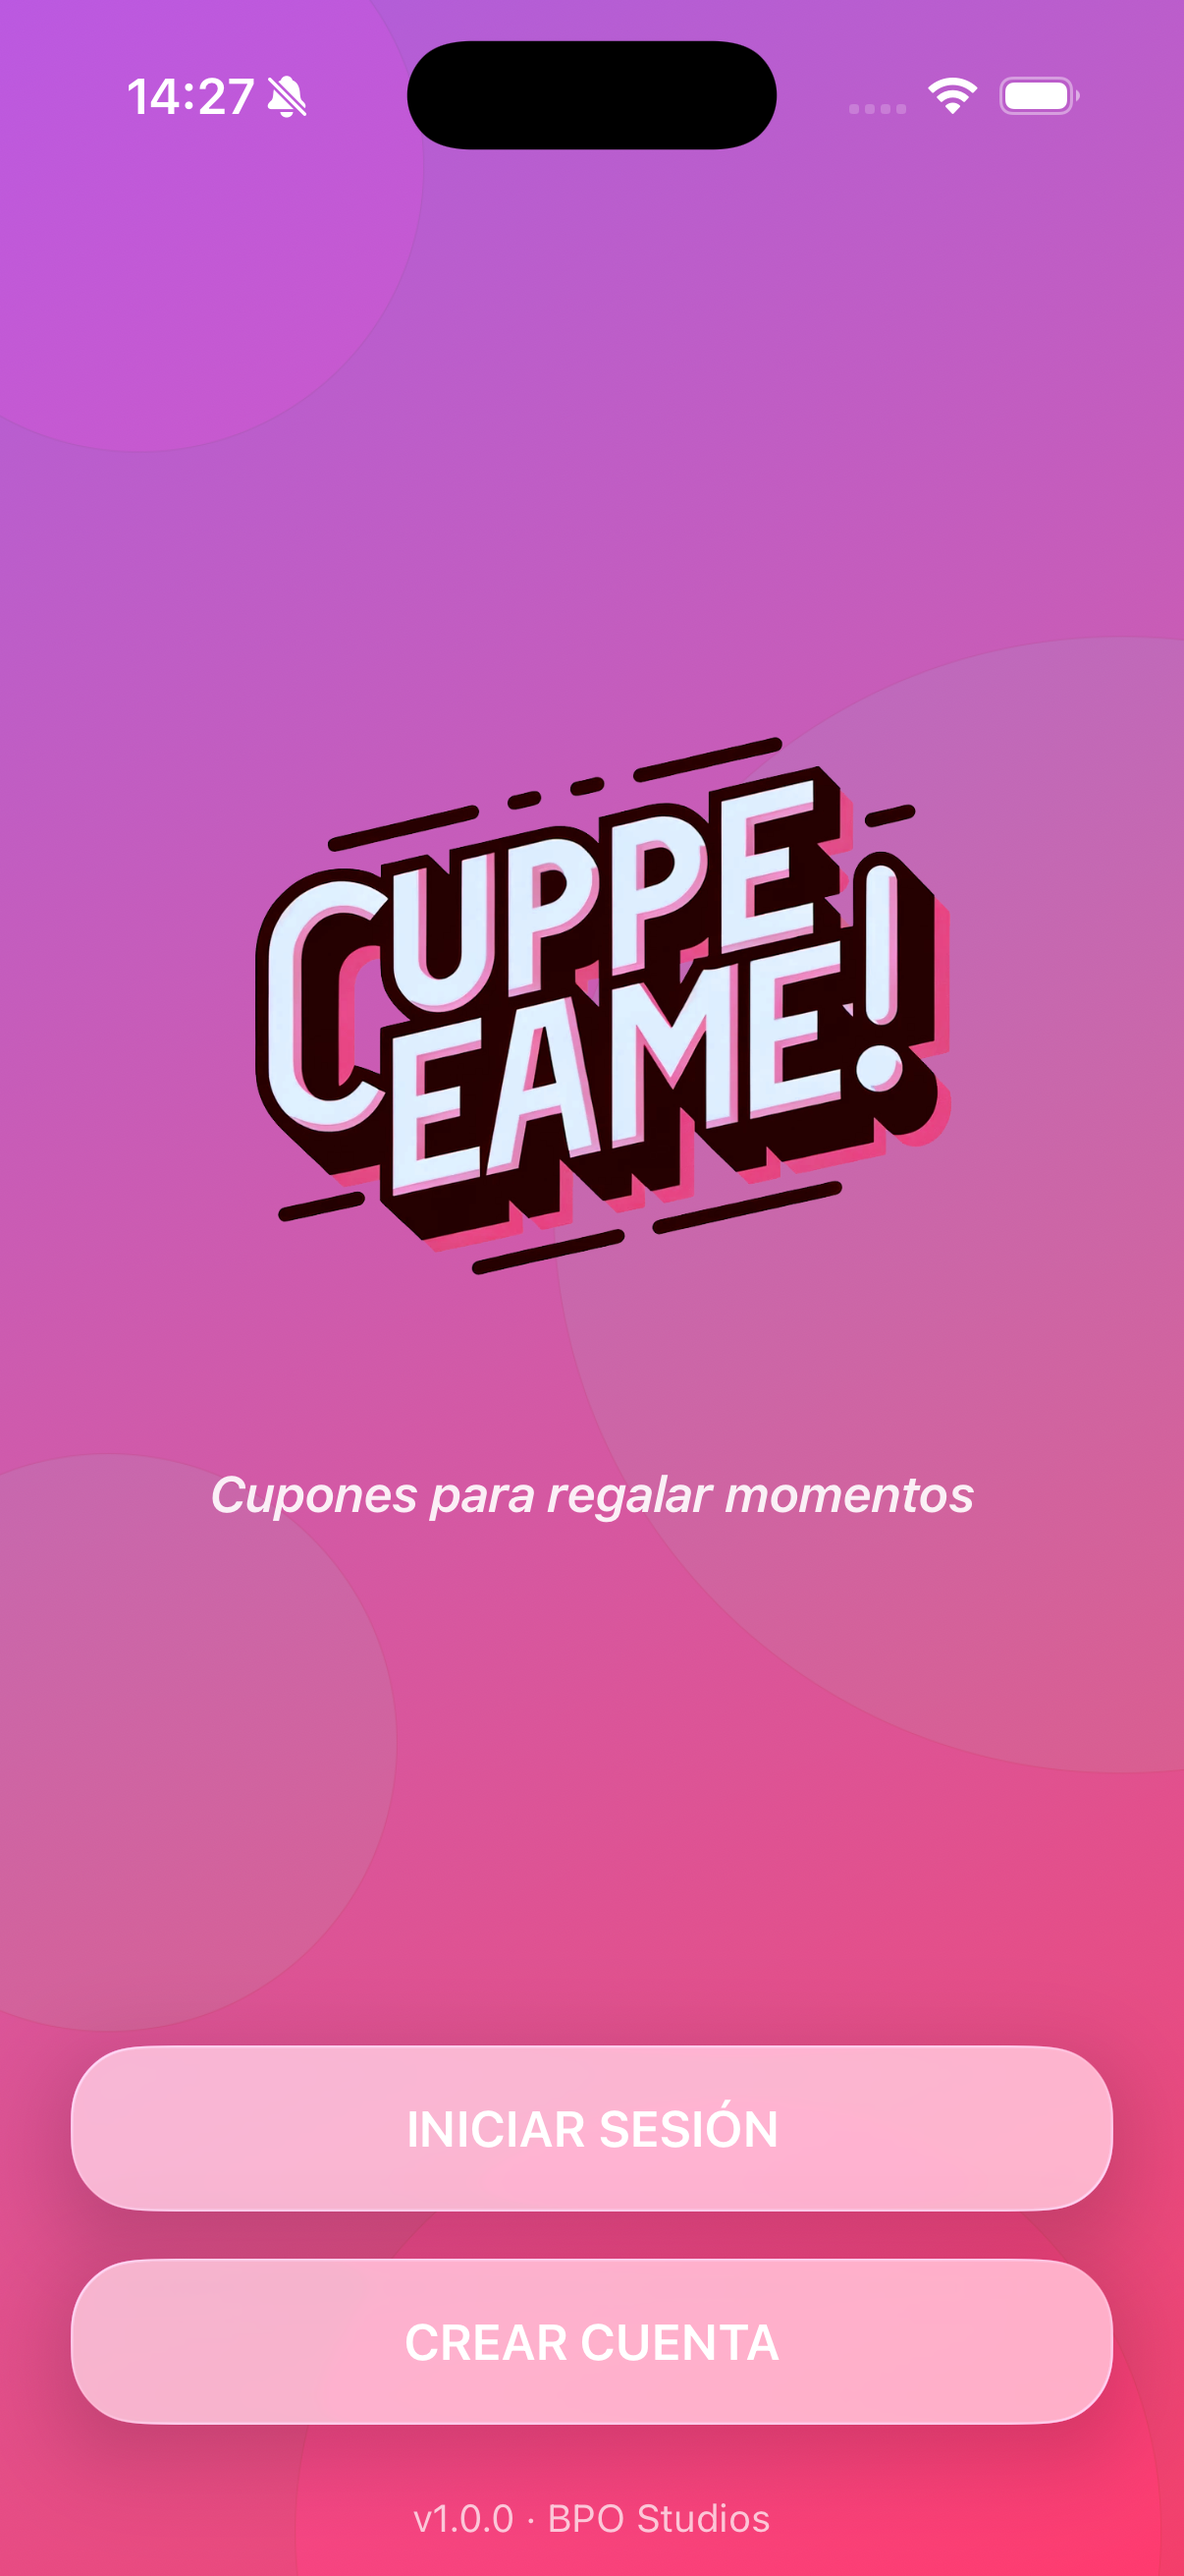
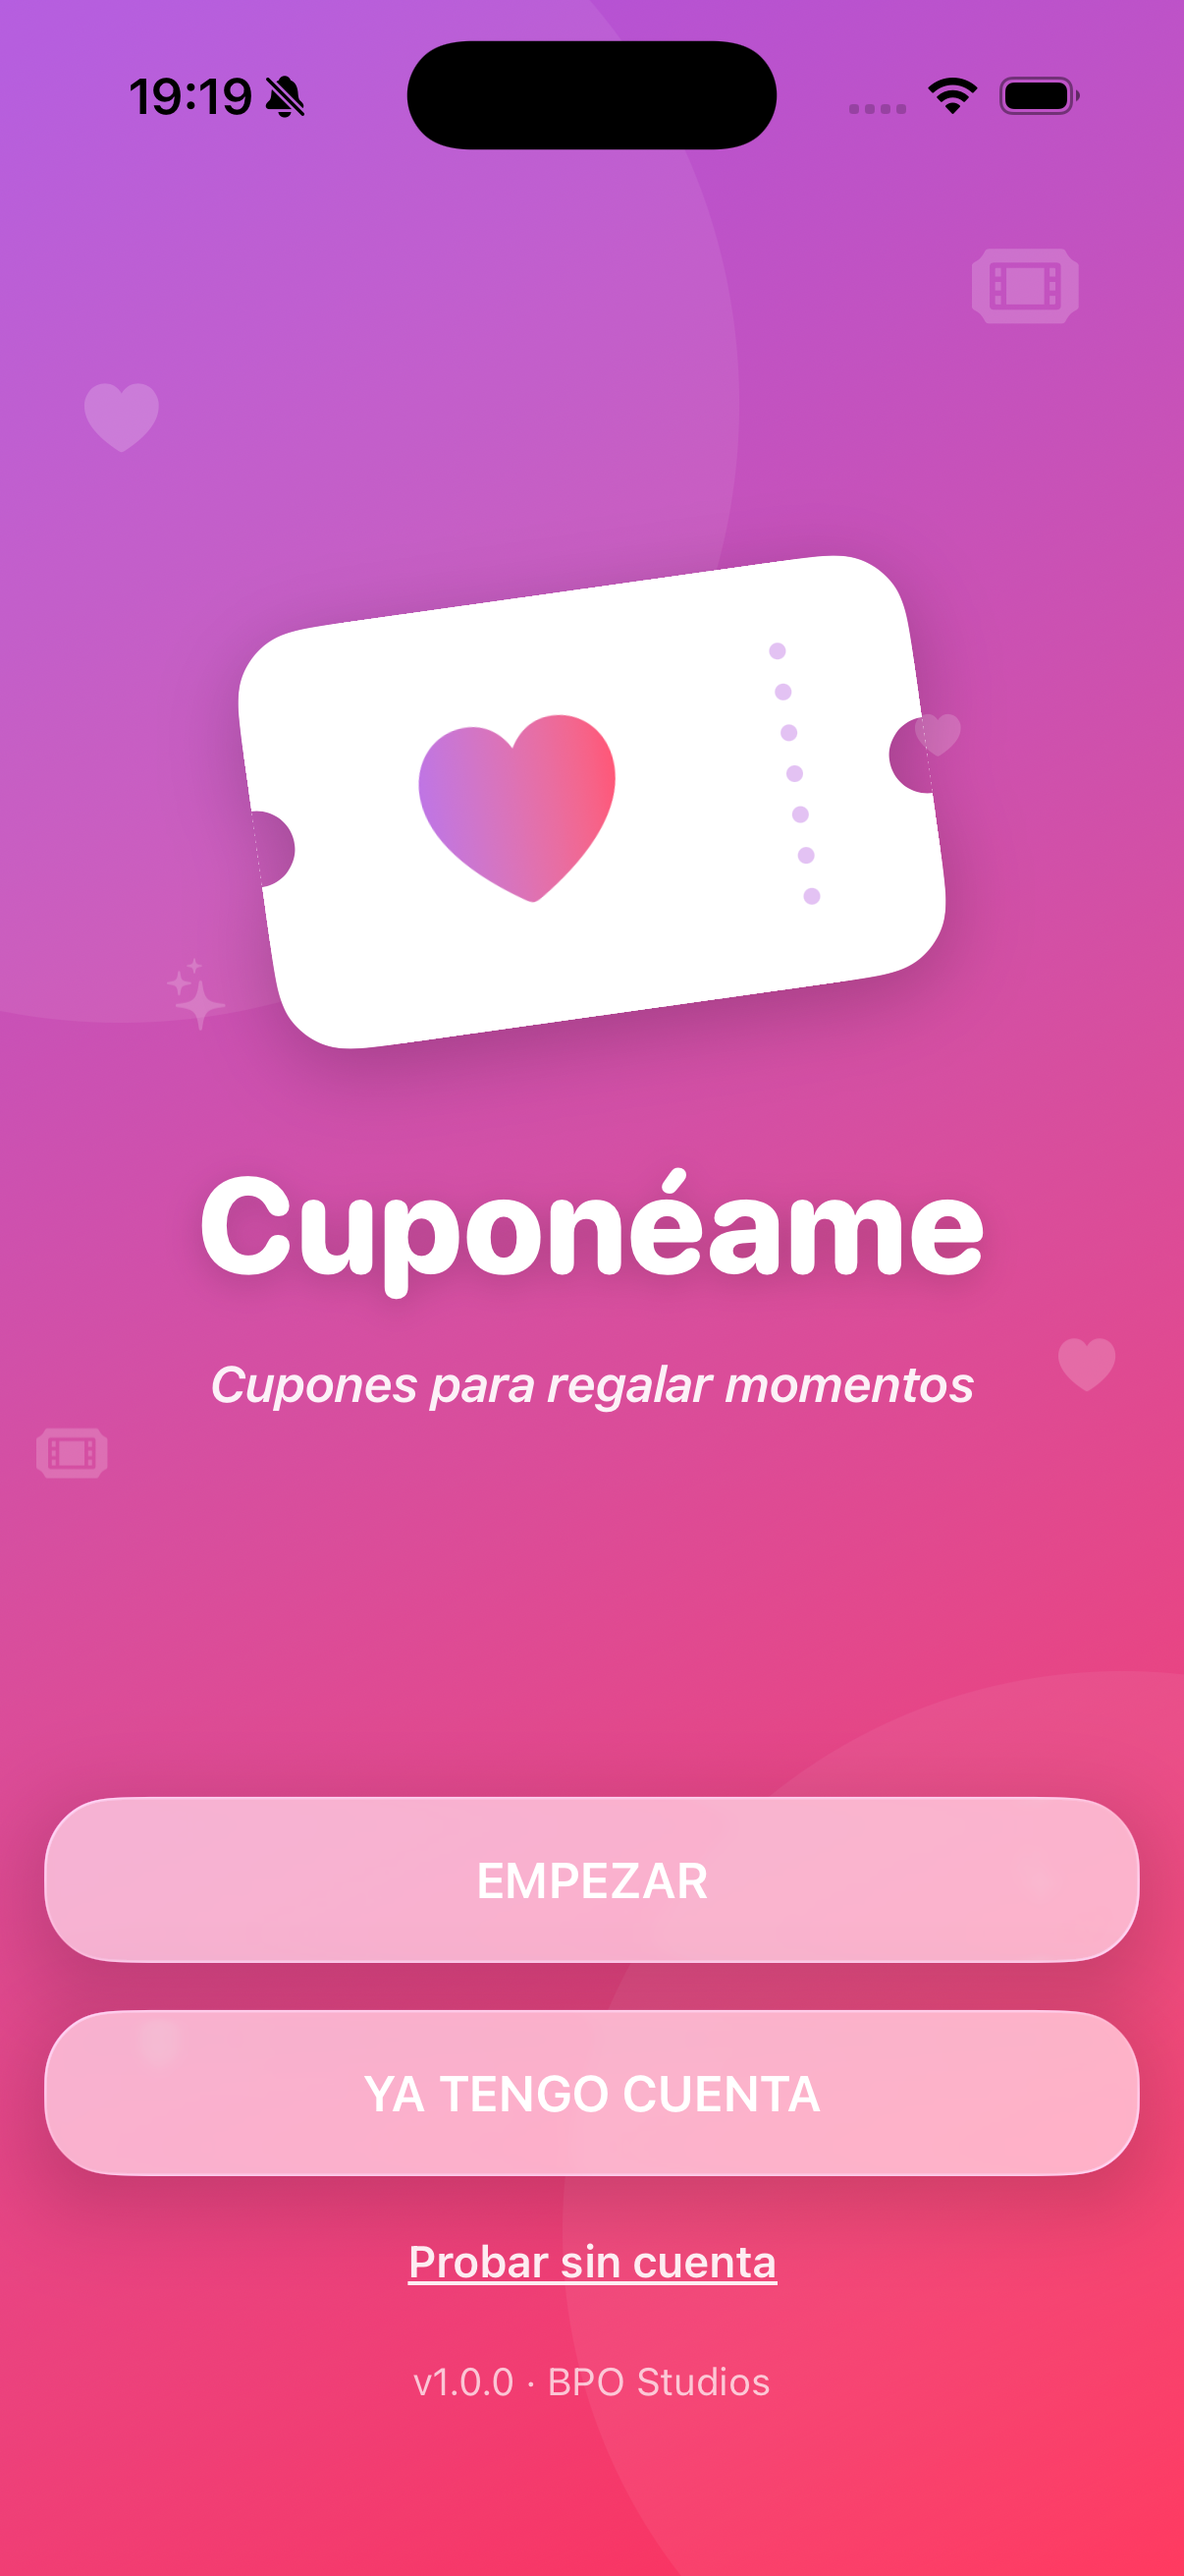
docs: capturas del rediseño (bienvenida, login, registro)

diff --git a/README.md b/README.md
@@ -32,11 +32,13 @@ App iOS nativa de cupones canjeables entre parejas: crea cupones personalizados 
 
 <sub>Gradiente morado→rosa + Liquid Glass + tarjetas foto-a-sangre: el lenguaje visual de Cuponéame.</sub>
 
-| Modo oscuro | Widget |
+| Login | Registro |
 |:---:|:---:|
+| <img src="docs/capturas/login.png" width="230" /> | <img src="docs/capturas/registro.png" width="230" /> |
+| **Modo oscuro** | **Widget** |
 | <img src="docs/capturas/oscuro.png" width="230" /> | <img src="docs/capturas/widget.png" width="230" /> |
 
-<sub>Tema Sistema/Claro/Oscuro configurable desde Ajustes, y widget «Próximo cupón» en la pantalla de inicio.</sub>
+<sub>Identidad rediseñada: logo vectorial de ticket (el mismo del AppIcon), tema Sistema/Claro/Oscuro y widget «Próximo cupón».</sub>
 
 </div>
 
@@ -152,6 +154,7 @@ firebase deploy --only firestore:rules,storage
 - [x] Avatares personalizables (20 emojis + pingu clásico 🐧)
 - [x] Widget «Próximo cupón» (WidgetKit + App Group)
 - [x] Reglas de seguridad de Firestore/Storage por usuario (en el repo; falta desplegar + App Check)
+- [x] Rediseño de identidad: logo vectorial + AppIcon nuevos, bienvenida animada y login/registro de marca
 - [ ] Push remota (APNs/FCM) con la app cerrada — requiere Cloud Functions y clave APNs
 
 ---
